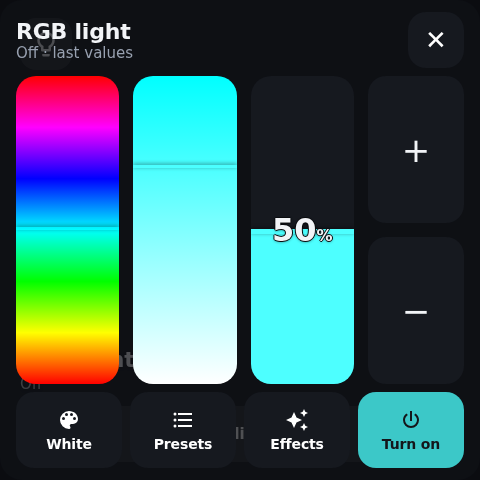
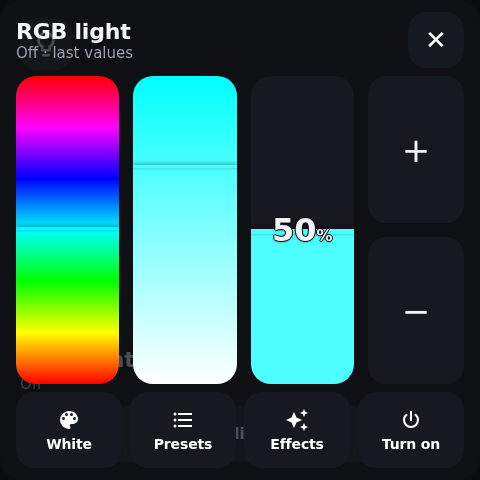
Keep light power action neutral while off

Changed region(s): [[0.7188, 0.8125, 0.9688, 1.0]]

diff --git a/dev/light-tests.html b/dev/light-tests.html
@@ -283,7 +283,8 @@ async function run() {
     assert(onColor!=='rgb(255, 183, 74)','HS power still amber');
     setState(colorState('off',{brightness:null,hs_color:null,rgb_color:null,color_mode:null,color_temp_kelvin:null,effect:null}));await pause();
     assert(d.values().brightness===128/255&&d.values().hue===.5,'last levels missing');
-    assert(getComputedStyle(sheet()._actions.lastChild).backgroundColor===onColor,'off power lost remembered hue');
+    assert(getComputedStyle(sheet()._actions.lastChild).backgroundColor==='rgb(22, 25, 31)','off RGB power is not neutral');
+    assert(getComputedStyle(sheet()._actions.lastChild).color==='rgb(255, 255, 255)','off RGB power text is not light');
     assert(sheet()._state.textContent==='Off · last values','history label missing');
     assert(!card._card.classList.contains('on')&&card._card.style.getPropertyValue('--ns-fill')==='0','off tile appears on');
     d.browse('Effects');const selected=d.choices.children[0];assert(selected.classList.contains('selected')&&!selected.disabled,'last effect cannot be used to switch on');
@@ -306,14 +307,16 @@ async function run() {
     assert(warm!=='rgb(255, 183, 74)','TW power still amber');
     setState(colorState('off',{brightness:null,hs_color:null,color_mode:null,color_temp_kelvin:null}));await pause();
     assert(d.channels()[0]==='temperature'&&Math.abs(d.values().temperature-2000/4500)<.00001,'temperature mode lost');
-    assert(getComputedStyle(sheet()._actions.lastChild).backgroundColor===warm,'off power lost remembered white');
+    assert(getComputedStyle(sheet()._actions.lastChild).backgroundColor==='rgb(22, 25, 31)','off TW power is not neutral');
     setState(state(['onoff'],'off',{brightness:null}));await pause();assert(d.channels().length===0,'cached capabilities resurrected');
     setState(state(['rgb'],'unavailable'));await pause();assert(!d.available(),'history hides unavailable');
   });
   await test('power preview respects explicit accent and follow_color false',async()=>{
     for(const [config,expected] of [[{accent:'#12abcd'},'rgb(18, 171, 205)'],[{follow_color:false},'rgb(255, 183, 74)']]) {
-      await details(config,colorState('off'));
+      await details(config,colorState('on'));
       assert(getComputedStyle(sheet()._actions.lastChild).backgroundColor===expected,'configured accent ignored');
+      setState(colorState('off'));await pause();
+      assert(getComputedStyle(sheet()._actions.lastChild).backgroundColor==='rgb(22, 25, 31)','accent overrode neutral off power');
       assert(calls.length===0,'preview sent command');
     }
   });

diff --git a/dist/nspanel-cards.js b/dist/nspanel-cards.js
@@ -923,7 +923,7 @@ class LightDialog {
       ...(p.white&&p.color?[action(this.white?'Colour':'White','mdi:palette',()=>{this.white=!this.white;this.active='brightness';this.render();},!this.drag)]:[]),
       ...(this.presets().length?[action('Presets','mdi:format-list-bulleted',()=>this.browse('Presets'),!this.drag)]:[]),
       ...(this.favorites().length?[action('Effects','mdi:creation',()=>this.browse('Effects'),!this.drag)]:[]),
-      action(on?'Turn off':'Turn on','mdi:power',()=>this.send('light',on?'turn_off':'turn_on',{entity_id:this.config.entity},true),available&&!this.busy&&!this.drag,true,!available),
+      action(on?'Turn off':'Turn on','mdi:power',()=>this.send('light',on?'turn_off':'turn_on',{entity_id:this.config.entity},true),available&&!this.busy&&!this.drag,on,!available),
     ];
     return {title:this.page||this.config.title||this.config.name||friendly(s,this.config.entity),
       state:(available?(on?'On':this.hasLastValues()?'Off · last values':'Off'):'Unavailable')+(this.error?' · '+this.error:this.page==='Effects'&&this.attributes().effect?' · '+this.attributes().effect:''),

diff --git a/README.md b/README.md
@@ -1059,10 +1059,11 @@ its shared light dialog. Dimmable, tunable-white and colour lights use the same
 layout: tall unlabelled tracks, brightness on the right, then large +/− buttons.
 Horizontal shadow markers show positions. Only brightness shows a percentage; temperature
 and hue/saturation remain available to accessibility tools without visible scales.
-The brightness fill previews the target colour. The power button uses a readable
-tint of that colour, including remembered values while off. An explicit `accent`
-still wins; `follow_color: false` retains the default action accent. Card colours
-and effect selection accents keep their existing behaviour.
+The brightness fill previews the target colour, including remembered values while
+off. The power button is neutral while off and uses a readable tint of the target
+colour while on. An explicit `accent` still wins for the on-state action;
+`follow_color: false` retains its default accent. Card colours and effect selection
+accents keep their existing behaviour.
 
 ```yaml
 type: custom:nspanel-light-card
